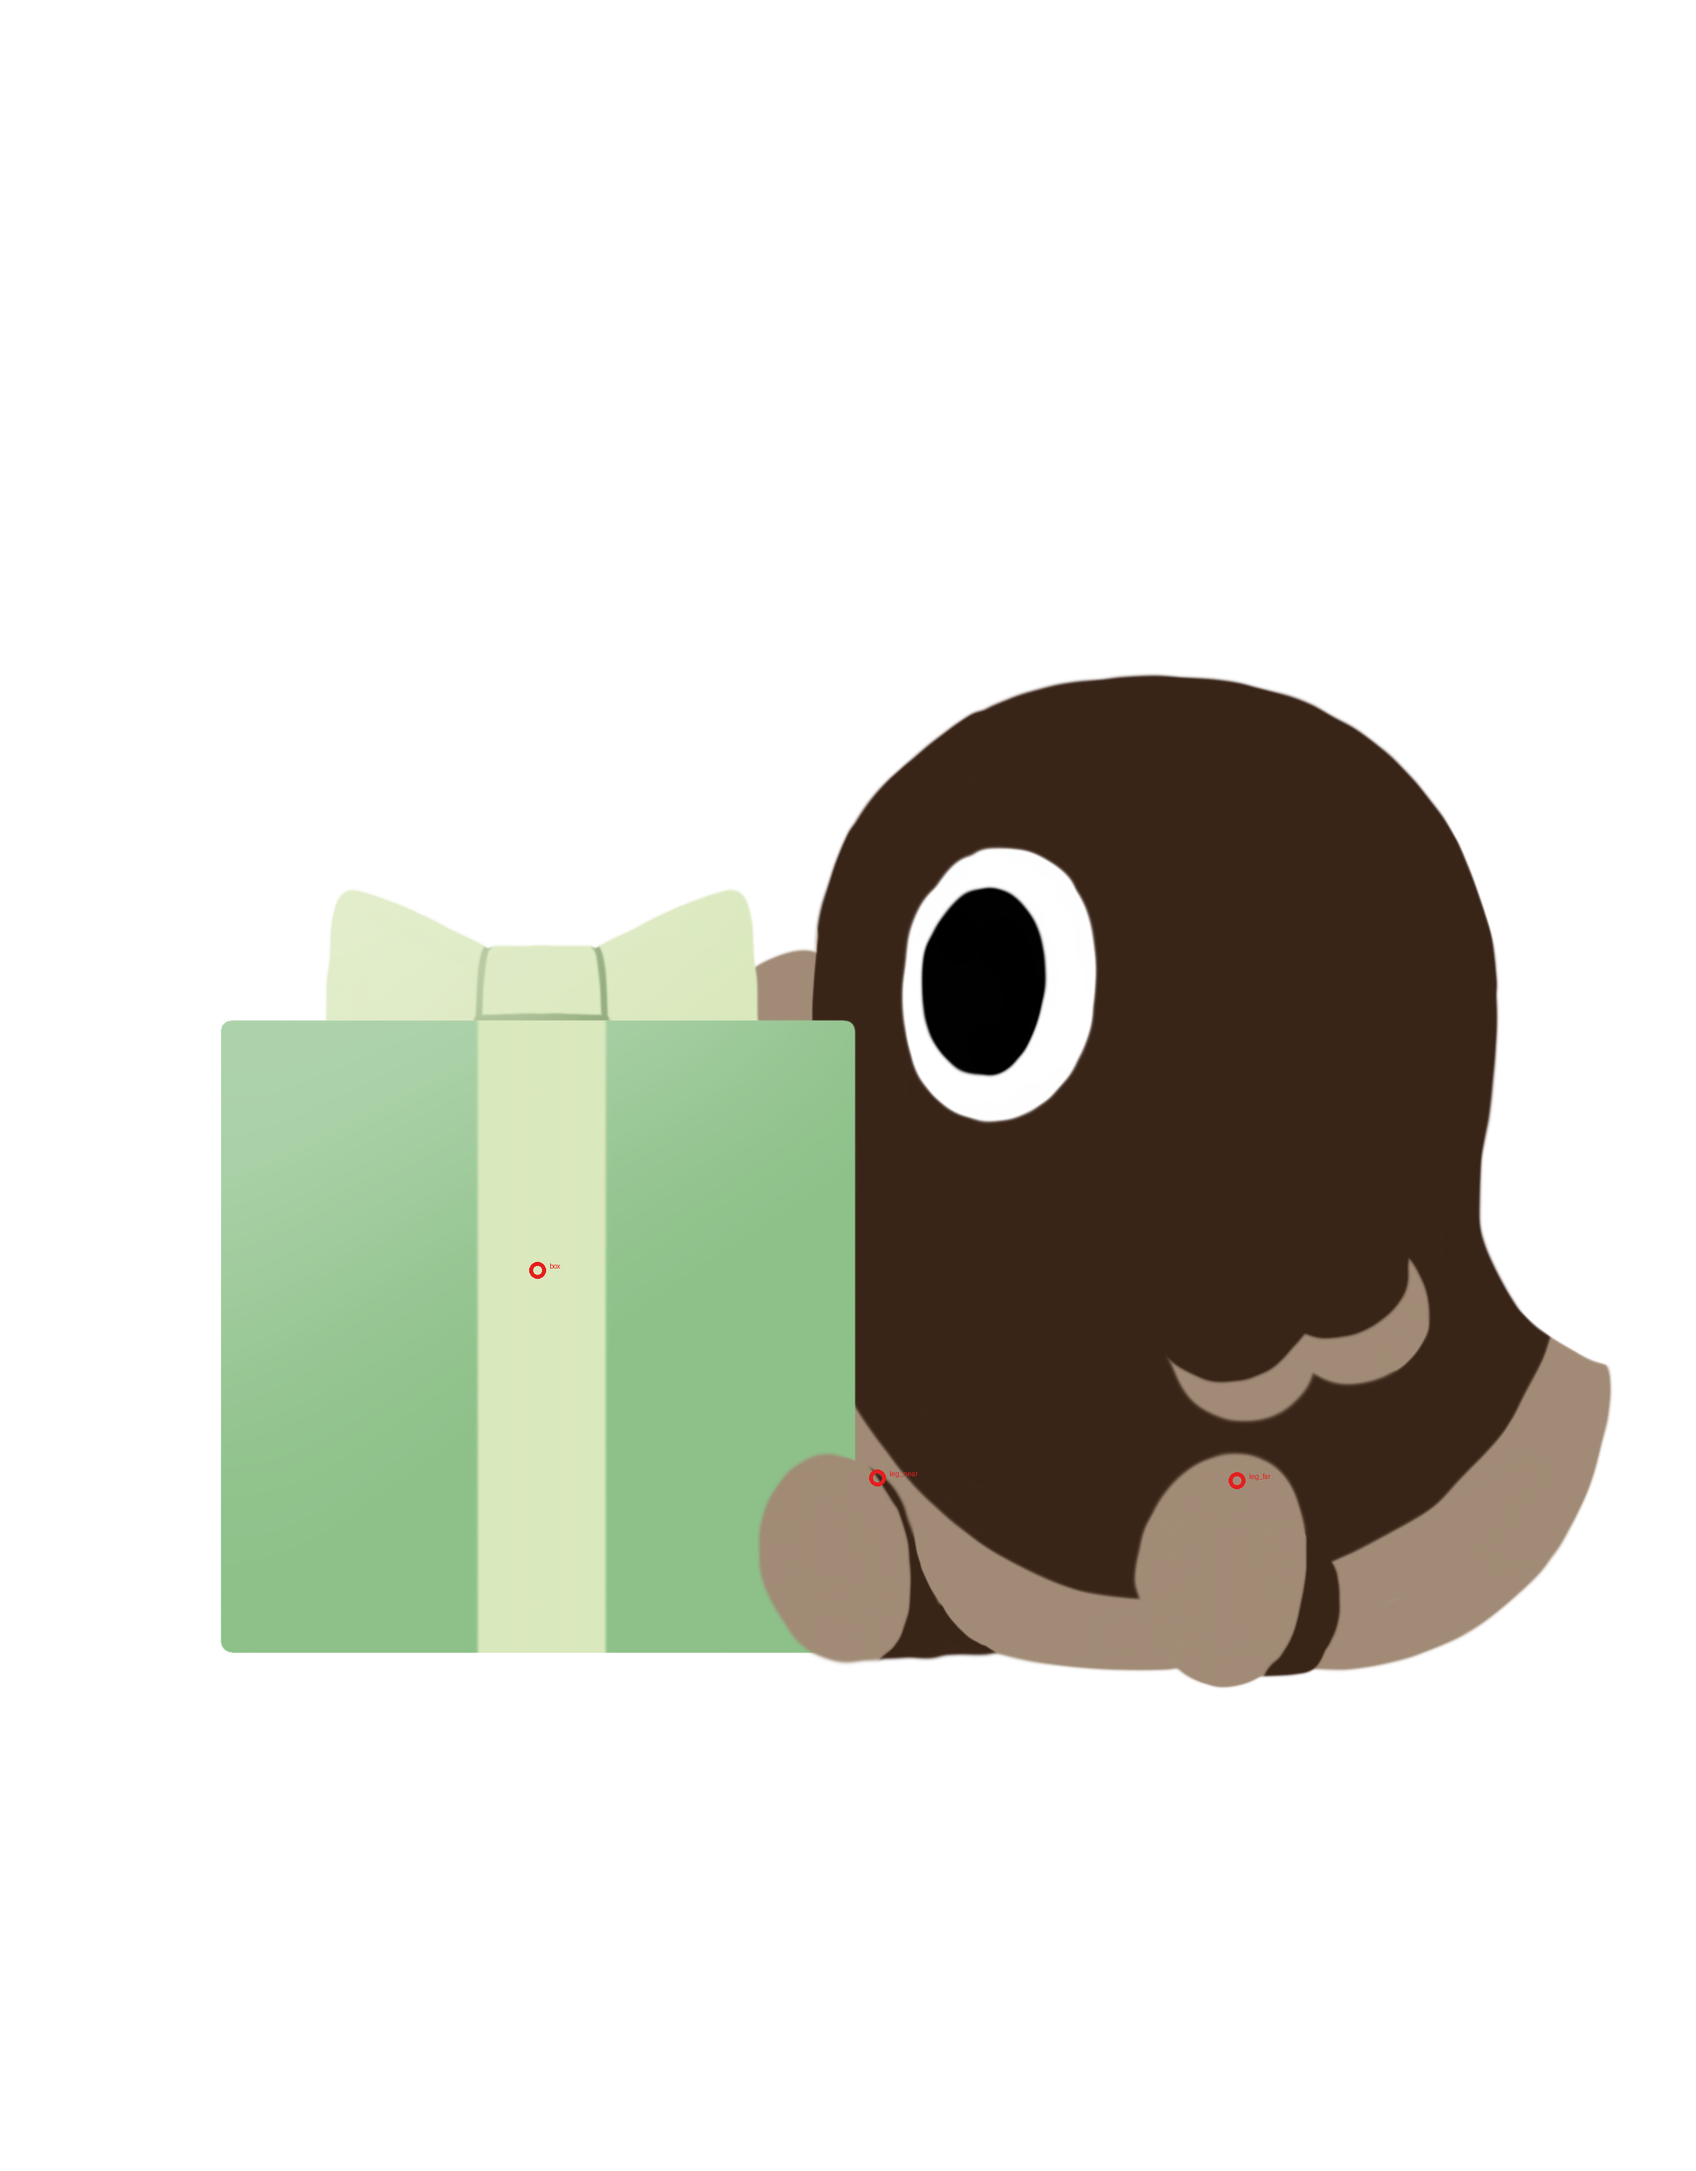
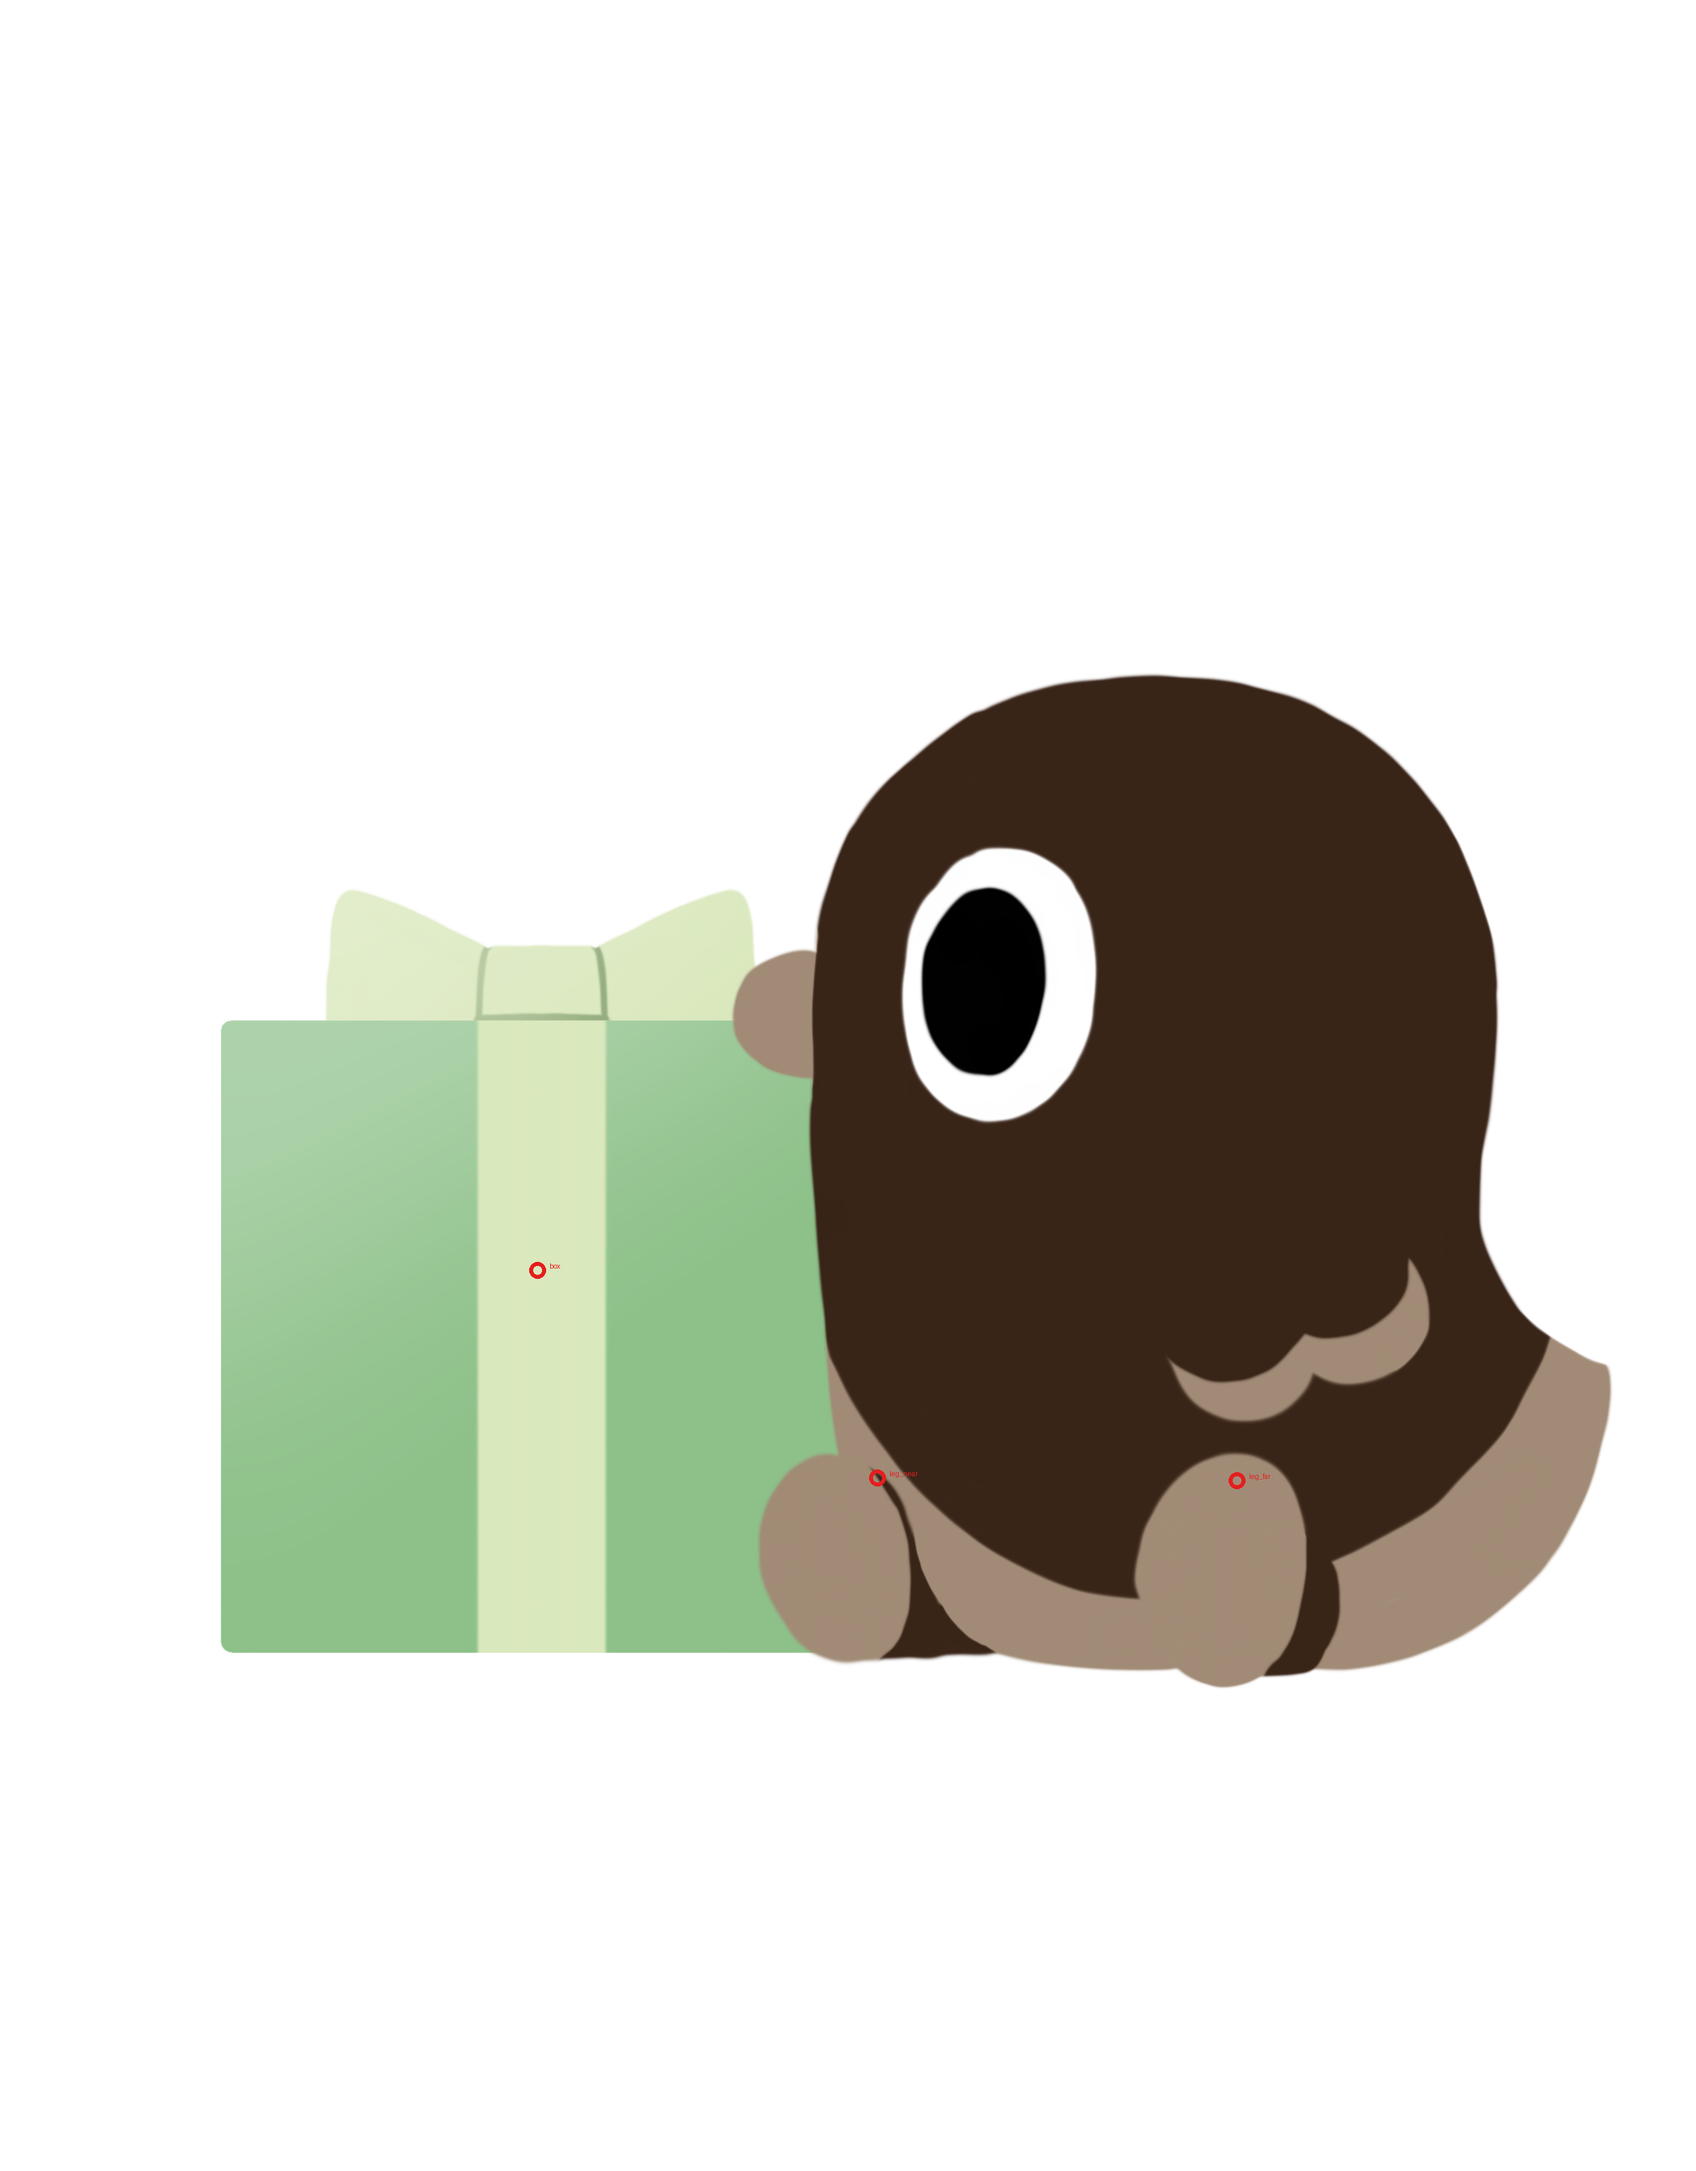
Seat Kain on the floor and draw the gift box behind him
The lie poses hovered 62px (3x) above the cup's front floor line and the
gift box was painted in front of Kain. Move lie-left/lie-right dy from
-0.012 to 0.016, drop the gift carrier's feet by 9px on the caffeine side
only, and take the box out of the rig's front list so it renders behind
the body.

Changed region(s): [[0.4368, 0.4375, 0.5304, 0.6562]]

diff --git a/SugarCap/Sources/Today/GiftCarrierLayer.swift b/SugarCap/Sources/Today/GiftCarrierLayer.swift
@@ -91,7 +91,9 @@ struct GiftCarrierFigure {
         self.painter = painter
         self.photo = photo
         r = scale / painter.scale
-        base = photo.point(0.5, side.idleCast.bottom + 0.012)
+        // 카인은 발이 잔 앞 바닥선보다 9px(3x) 떠 보여 조금 더 내린다(대표님 2026-10-10).
+        let dy: Double = side == .sugar ? 0.012 : 0.016
+        base = photo.point(0.5, side.idleCast.bottom + dy)
         distance = Double(size.width) - Double(base.x) + painter.width * r
     }
 

diff --git a/SPEC.md b/SPEC.md
@@ -375,7 +375,7 @@ Entry는 기록 시점 값을 스냅샷한다. 카탈로그 갱신으로 과거 
 - **로슈 doze-lean 구현(2026-10-06).** 원화 레이어 = 몸·배(코·눈 포함) + 팔 2(배 위에 얹힘)·발 2, 전부 몸 앞. 발 기준점은 몸에 붙는 위쪽으로 `rig.json`에 적었다. 3.6초 주기로 숨쉬고(세로 ±1.2%, 팔이 같이 들썩), 7초마다 2.4초에 걸쳐 4° 기울었다가 0.15초 만에 돌아오며 살짝 튄다(화들짝). 자리 = 바닥 x 0.22, 등이 유리에 닿는다.
 - **카인 doze-one-leg 구현(2026-10-06).** 원화 레이어 = 몸·배·반 감은 눈 + 선 다리(`leg_stand`)·접은 다리(`leg_tucked`), 다리는 배 뒤라 몸 뒤. 기준점은 자동 추정(엉덩이). 숨쉬며 7.5초마다 2.6초에 걸쳐 5° 앞으로 기울었다가 0.12초 만에 번쩍 돌아오고, 그때 살짝 튀며 접은 다리가 움찔. 자리 = 앞 가장자리 위 xRim 0.25. 고개가 반 넘게 떨어지면(1.5초) 감은 눈으로 바뀌었다가 번쩍과 함께 반 감은 눈으로 돌아온다(대표님). 감은 눈 레이어 = 반 감은 눈 자리를 눈 없는 몸 그림으로 덮고(테두리보다 12px 넓게) 흰 선을 얹은 한 장. 몸 그림 오른쪽에 흐린 스케치 선(불투명도 최대 18%)이 남아 있다.
 - **카인 swim 한 바퀴·기포(2026-10-06 대표님).** 카인 한 바퀴 금지의 유일한 예외. 9초마다 1.8초에 걸쳐 그림 bbox 가운데를 축으로 360도 돈다(`"pivot": "center"`, 파형 `spin`: 구간 동안 0→1 후 1 유지, amp 360이라 주기 경계에 이음매가 없다). 축이 가운데라 자리(`place`)도 그림 가운데를 가리키고 `centered`는 뺐다. 숨 쉬듯 3.2초마다 부리 끝 앞(캔버스 540, 1450)에서 흰 점 3개가 0.2초 간격으로 나와 1.6초 동안 30pt 곧게 오르며 사라진다(`bubbles`). 나오는 자리만 그 순간의 몸 변형을 따르고, 나온 뒤엔 몸을 따라가지 않는다. 기포는 반투명 층 밖에 그려 몸보다 또렷하다. **얼음과 안 겹치게(2026-10-07 대표님):** 카인 `liquid`를 잠긴 얼음이 끝나는 선(헤엄 x 범위, 밝기 90 경계: 30% .782·50% .668·80% .568·100% .537)으로 다시 쟀고, 그 선~잔 안쪽 바닥 .852의 한가운데(depth .5)에 그림 가운데를 둔다. 한 바퀴 원(반지름 사진 높이 .0575)이 들어가는 50% 이상에서만 나온다.
-- **카인 lie 구현(2026-10-09).** 원화 레이어 = 몸·부리·눈 흰자·눈동자(전부 몸에 합침, 팔다리 없음. `import_layers.py`가 팔다리 없는 그림도 받게 함). 같은 그림으로 자세 2개: `lie-left`(좌우반전, 잔 왼쪽 냅킨 xRim -0.74)·`lie-right`(그림 그대로, 잔 오른쪽 xRim 0.74), 둘 다 머리가 잔 쪽(대표님 "좌우반전해서 양쪽 다"). xRim ±0.66은 잔 바닥 모서리에 겹쳐 ±0.74로. 움직임 = 숨쉬기(세로 ±1.4%/3.6초) + 9초마다 1.4초 가로 기지개(+3%). 눈이 몸의 3.8%라 `make_pose_meta.py` 카인 눈 상한을 3%→4.5%로 올렸고, 눈 왼쪽 표본이 꼬리 돌기에 떨어져 눈꺼풀 색을 자세별 `lid`로 지정했다(gift-carry도 같음).
+- **카인 lie 구현(2026-10-09).** 원화 레이어 = 몸·부리·눈 흰자·눈동자(전부 몸에 합침, 팔다리 없음. `import_layers.py`가 팔다리 없는 그림도 받게 함). 같은 그림으로 자세 2개: `lie-left`(좌우반전, 잔 왼쪽 냅킨 xRim -0.74)·`lie-right`(그림 그대로, 잔 오른쪽 xRim 0.74), 둘 다 머리가 잔 쪽(대표님 "좌우반전해서 양쪽 다"). xRim ±0.66은 잔 바닥 모서리에 겹쳐 ±0.74로. 처음 dy -0.012는 잔 앞 바닥선보다 62px(3x) 위라 떠 보여 바닥선에 맞춘 0.016으로(대표님 2026-10-10 '바닥에 확실히 앉아 있게'). 선물 카인도 같은 지적으로 상자를 몸 뒤 층으로 옮기고 발을 9px 내렸다(`GiftCarrierFigure` dy 0.016, 로슈는 0.012 그대로). 움직임 = 숨쉬기(세로 ±1.4%/3.6초) + 9초마다 1.4초 가로 기지개(+3%). 눈이 몸의 3.8%라 `make_pose_meta.py` 카인 눈 상한을 3%→4.5%로 올렸고, 눈 왼쪽 표본이 꼬리 돌기에 떨어져 눈꺼풀 색을 자세별 `lid`로 지정했다(gift-carry도 같음).
 - **로슈 gift-carry 레이어(2026-10-06).** §4.9 선물 들고 오기용 원화(몸·배·상자 순, 팔 2·발 2는 몸 앞). 대기 자세가 아니라 `poses.json`·iOS 내보내기에는 안 넣었다. 들고 오기 동작을 만들 때 연결한다.
 - **로슈 Lv2 watch-front 철회(2026-10-06 대표님).** `poses/watch-front.png`는 watch 자세의 앞모습으로 유리 반사 얼굴용(`make_watch_face.py`)이지 독립 자세가 아니다. Lv2는 새로 기획한다.
 - **음료와 닿는 자세는 뺐다(2026-10-04 대표님: 구현이 복잡함).** 로슈 float-belly(음료 위 둥둥)·카인 peck-ice(얼음 쪼기)·카인 surf-ice(얼음 서핑)를 빼서 로슈 Lv10·카인 Lv4·Lv8이 비어 있다. 이미 구현된 Lv3 in-cup·swim은 그대로 둔다.
